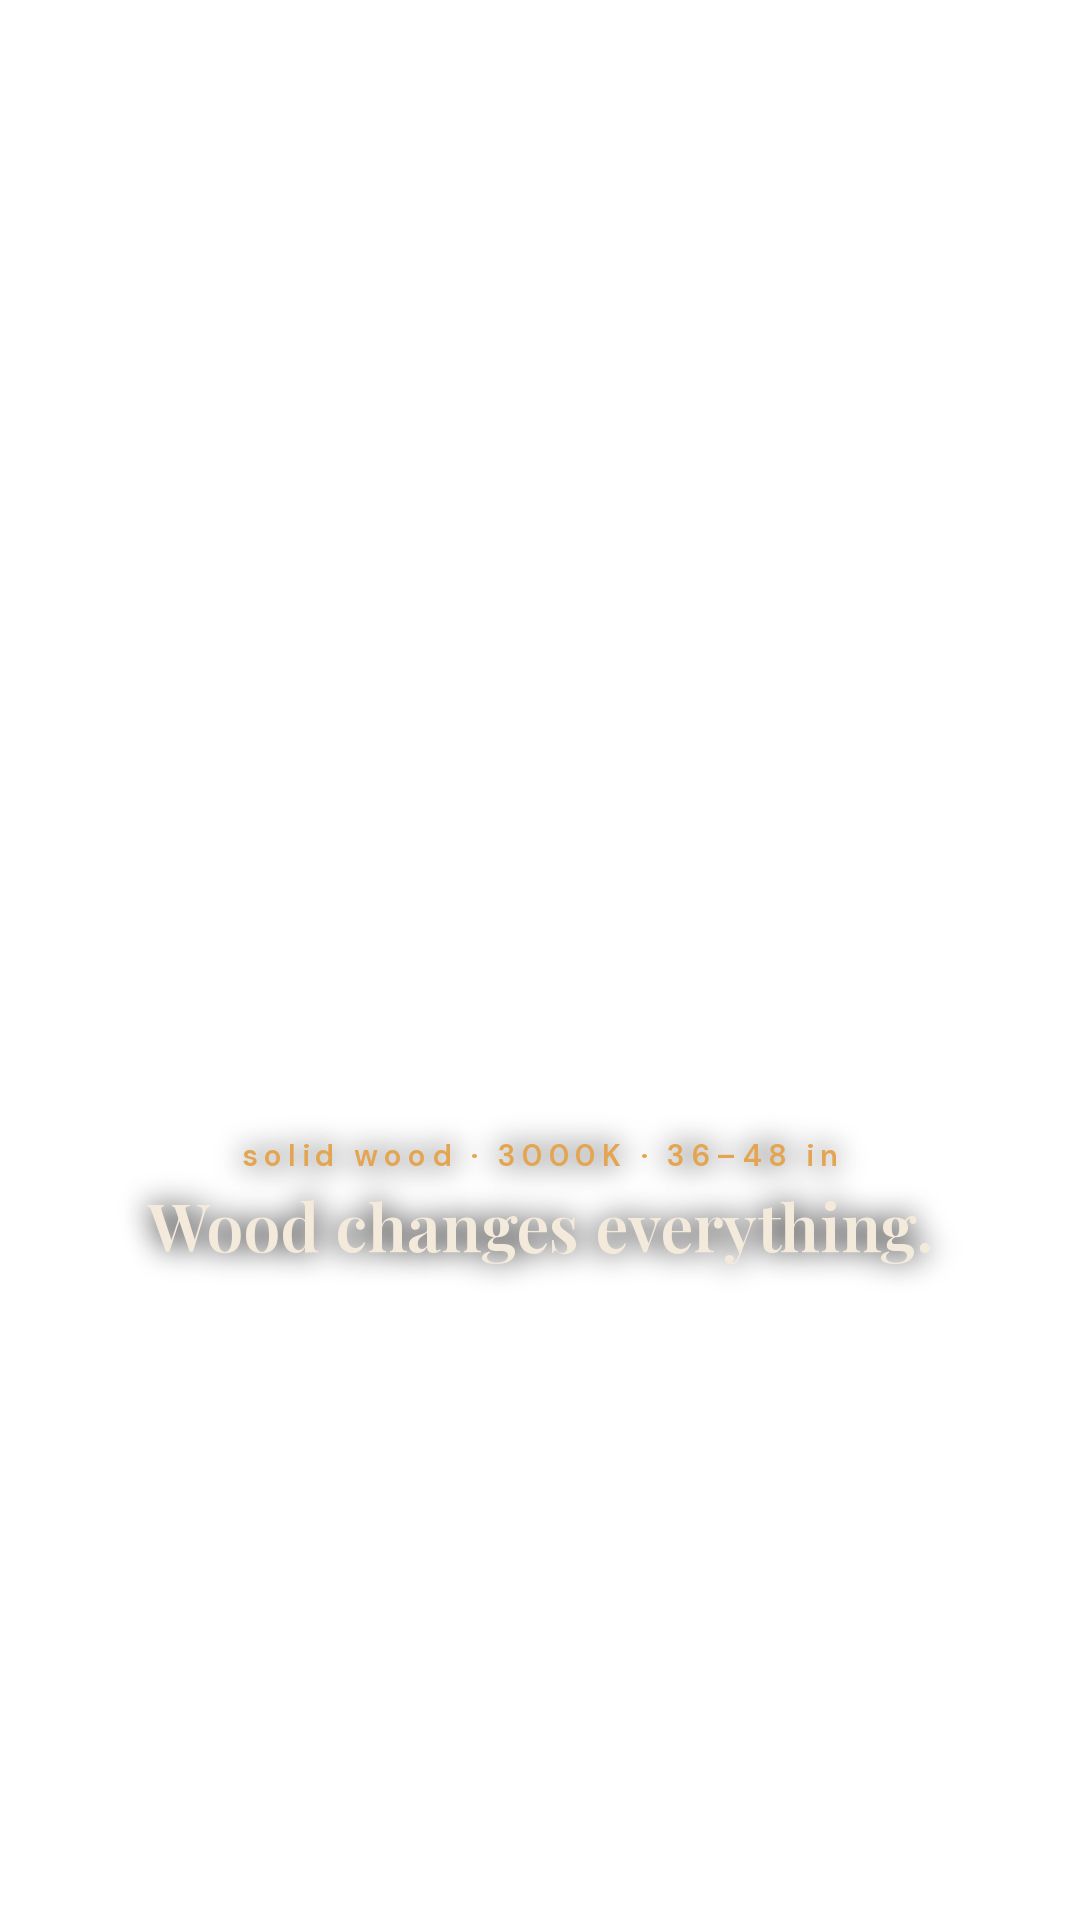
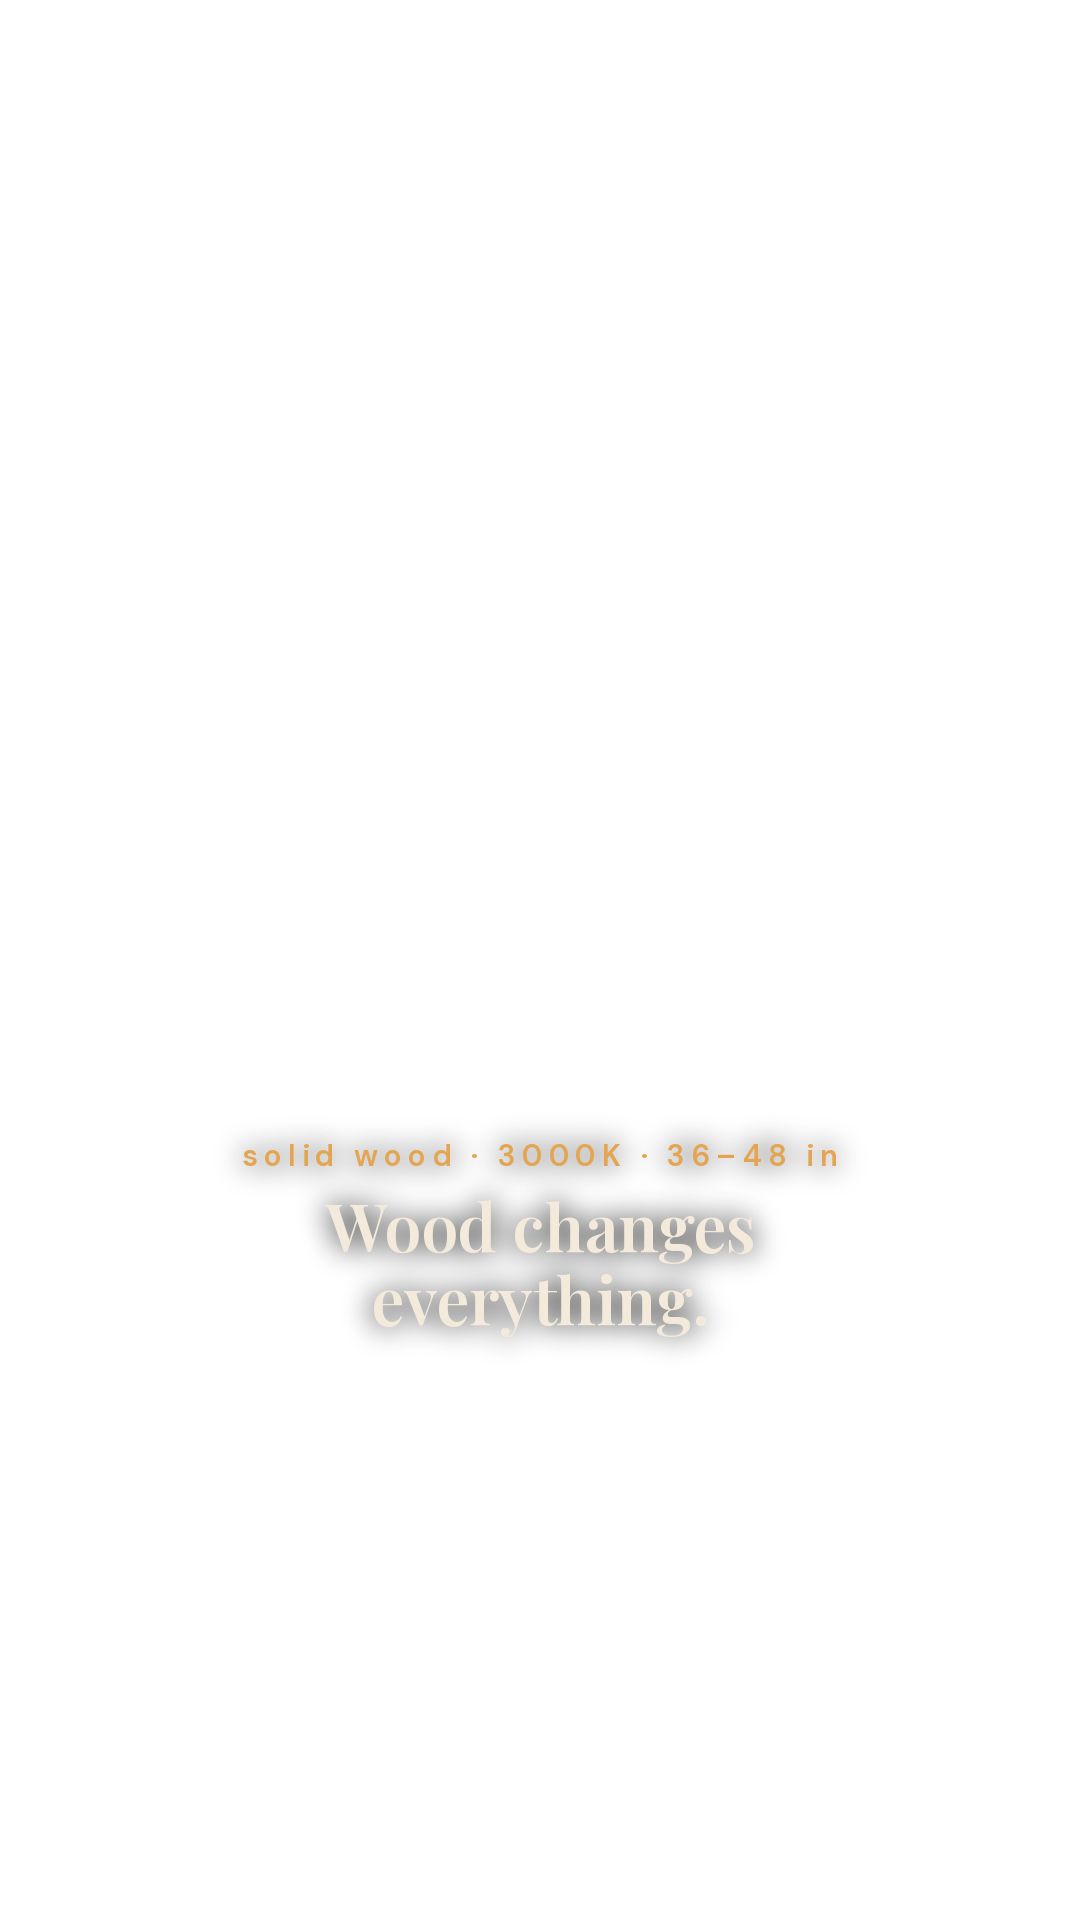
D-017 and the OS producer contract: retire the trademark warning, adopt §6b/§6c
D-017 (Rameez, 2026-09-07, settled): the product name stays in every creative,
end cards and captions, organic and ad cuts alike. So the lint no longer warns on
it and the Ads Engine facts check no longer fails on it — that check was the thing
re-raising a settled question on every cube-lamp render. copy.name_ad survives as
an optional shorter label; nothing enforces it. All 33 pre-flight timelines
regenerated so the shipped record matches.

Adopt OPERATING_MANUAL §6b/§6c as standing behaviour, written into CLAUDE.md and
the skill so no session has to be told again:
- §6b nothing is finished until it is filed, named NW-...-<handle>-...-v#,
  registered with status READY/STAGED/UNUSED, merged to main, and handed off with
  a line naming SOCIAL · ADS · PIN · EMAIL.
- §6c read source/INDEX.tsv and reuse existing footage before generating anything;
  never touch a frame flagged DO NOT REUSE. The mirror has not landed yet, so the
  rule also says what to do while source/ is absent.

Claude-Session: https://claude.ai/code/session_01NCc2h939JXgRh41rBmvC7M

Changed region(s): [[0.1222, 0.625, 0.8556, 0.7188]]

diff --git a/nixwoods-reel/system/make_reel.py b/nixwoods-reel/system/make_reel.py
@@ -40,7 +40,7 @@ def _strings(v, label):
 
 
 def lint(brief, warn=None):
-    """brand-voice and readability checks on every copy string; trademark hits go to warn (ads only)"""
+    """brand-voice and readability checks on every copy string"""
     problems = []
     warn = warn if warn is not None else []
     banned = set(PRESETS["banned_words"])
@@ -52,9 +52,8 @@ def lint(brief, warn=None):
                 problems.append(f"{label}: banned word '{w}' in {s!r}")
         if len(words) > maxw and not label.endswith(".quote"):
             problems.append(f"{label}: {len(words)} words (max {maxw}) in {s!r}")
-        for term in HK.trademark_hits(s):
-            if label != "copy.name":
-                warn.append(f"{label}: trademark term '{term}' in {s!r} — ad cuts use copy.name_ad")
+        # D-017 (2026-09-07, settled): the product name stays in every creative, organic and ad
+        # alike. No warning, no swap, and the question is not to be reopened.
     return problems
 
 
@@ -75,7 +74,7 @@ def preflight(brief, reel, warns):
         dict(check="rules · at least two colours shown", ok=(True if reel.colours == ["n/a"] else len(reel.colours) >= 2),
              detail="not applicable — single-temperature fixture" if reel.colours == ["n/a"] else ", ".join(reel.colours)),
         dict(check="rules · no dispatch-time claim while backlogged", ok=not re.search(r"\b(ships?|dispatch\w*|deliver\w*)\b.*\b\d+\s*(days?|hrs?|hours?)", text.lower()), detail="brief.copy.delivery is a claim: confirm the backlog first" if "deliver" in text.lower() else ""),
-        dict(check="facts · banned words / trademark / numbers in PDP facts", ok=not [w for w in warns if "trademark" in w] and (hs["gates"]["truth"] if hs else True), detail="; ".join(w for w in warns if "trademark" in w) or (f"hook truth gate {'pass' if hs and hs['gates']['truth'] else 'FAIL'}" if hs else "")),
+        dict(check="facts · banned words / numbers in PDP facts", ok=(hs["gates"]["truth"] if hs else True), detail=(f"hook truth gate {'pass' if hs and hs['gates']['truth'] else 'FAIL'}" if hs else "")),
         dict(check="landing = the product shown, .nw-pdp template, stock visible", ok=None, detail="manual"),
         dict(check="visual confirmation (watch the mp4, not the sheet)", ok=None, detail="manual"),
         dict(check="named control in the same ad set", ok=None, detail=E["controls"].get(brief.get("product", "rubik"), {}).get("creative_id", "none on record")),

diff --git a/.claude/skills/nixwoods-reels/SKILL.md b/.claude/skills/nixwoods-reels/SKILL.md
@@ -41,12 +41,15 @@ No `--root` needed: each product declares its asset folder in `system/presets.js
 - **Never claim a dispatch time** while orders are backlogged, and no lumens or CRI figures without a datasheet.
 - **Banned words** (the lint enforces): discover, elevate, luxury, premium, exquisite, journey, curated, unlock, stunning, delve, realm.
 - **Any Rubik's / Glass Block creative must show at least two colours.** A single-colour static breaks the locked rule.
-- **Generated frames in a paid ad** need Meta's AI-disclosure ticked by hand, and the trademarked product name swapped for `copy.name_ad`.
+- **Generated frames in a paid ad** need Meta's AI-disclosure ticked by hand.
+- **D-017 (2026-09-07, settled): "Rubik's Cube" stays in all creative** — end cards, captions, everywhere. No re-render, no rename, and the trademark question is not to be raised again in any session.
 - **Never deploy a creative nobody has watched.** The contact sheet is not a substitute for the mp4.
 - **Judge each product on the right metric.** Wall lights are a CTR product (5.56% to women 35–64); pendants are a ROAS product (1.52% CTR at 13.1x). A pendant reel with low CTR is not a failure — see PLAYBOOK 1.4.
 - **Never pull from `90-Archive/photoshoot-20260805-WATERMARKED-do-not-use`.** It is the same 5 Aug shoot as the clean `NW-CREATIVE-IMG-20260805-*` files, but its filenames are bare camera names (`AC4I9586.JPG`), so it is easy to grab by mistake. Match the frame number to the clean original instead; do not remove a watermark to reuse a frame.
 - **Drive downloads work up to 10 MB per file**; over that the connector refuses. That rules out the 18 raw shoot clips (19–25 MB) but not the photographs or the shorter edits. Oversized tool results are written to disk — decode the base64 from there, never through context. See `nixwoods-reel/DRIVE-MAP.md`.
 - **A horizontal fixture is not a cropping problem.** A centre 9:16 crop of a four-foot pendant removes the four feet. Wide shots of linear products use `fit: contain` in the presets.
+- **Reuse before you generate (§6c).** Read `source/INDEX.tsv` at the repo root — the library Mac Claude Code mirrors into `source/<shopify-handle>/` — and build from existing footage before generating or spending a credit. Never use a frame flagged `DO NOT REUSE`. If `source/` is absent the mirror has not landed yet: say so, and fall back to `<product>-reels/src/` and the Shopify CDN.
+- **Nothing is finished until it is filed, named, registered and handed off (§6b).** Named `NW-<FRONT>-<TYPE>-<YYYYMMDD>-<handle|brand>-<slug>-v#` (use `system/file_for_os.py`); text merged to `Code` `main` the same session, never left on a branch; one `00-OS/ASSET_REGISTRY.md` row per asset with `status` READY/STAGED/UNUSED (`git pull --rebase` first — the Mac writes the same files); a TASK_LEDGER row and a HANDOFF line naming `SOCIAL · ADS · PIN · EMAIL`. Consumers read the registry, never the chat.
 - Renders are committed as each passes review — the session container is ephemeral. See the storage rule in `nixwoods-reel/README.md`.
 
 ## Where things are
@@ -58,4 +61,5 @@ No `--root` needed: each product declares its asset folder in `system/presets.js
 | Finished reels | `rubik-reels/out/system/` (12 mechanisms + a 27 s ad cut) · `aurora-reels/`, `rosewood-reels/`, `teak-reels/` `out/system/` (5 each) |
 | Scripts and voice-overs | `system/scripts/product-scripts.md` (four products) and `vo-scripts.md` (registers) |
 | Ads Engine, creative learnings | `Code` repo, branch `claude/nixwoods-funnel-audit-hg4dk9` |
-| Source footage and briefs | Google Drive, root `nixwoods` — map and access limits in `nixwoods-reel/DRIVE-MAP.md` |
+| Source footage and briefs | `source/<handle>/` + `source/INDEX.tsv` (Mac mirror, read first) · Google Drive, root `nixwoods` — map and access limits in `nixwoods-reel/DRIVE-MAP.md` |
+| OS contract, ledgers, decisions | repo `nixwoods-os` — `00-OS/OPERATING_MANUAL.md` §6b/§6c, `ASSET_REGISTRY.md`, `TASK_LEDGER.md`, `DECISIONS.md` |

diff --git a/nixwoods-reel/CLAUDE.md b/nixwoods-reel/CLAUDE.md
@@ -42,3 +42,42 @@ No flags needed. `--root` only for assets outside a declared product folder.
 - **Copy rules are enforced, not advisory**: banned words, 12 words a screen, no fabricated testimonials, no dispatch claims while backlogged, two colours minimum on the cube lamp, AI disclosure on generated frames in paid ads.
 - Ads Engine, creative learnings and the decision ledger live in the `Code` repo, branch `claude/nixwoods-funnel-audit-hg4dk9`.
 - **Drive** (root `nixwoods`): downloads work up to 10 MB a file, so photographs and short edits are fetchable but the 18 raw shoot clips (19–25 MB) are not. Reel photography comes from the public Shopify product CDN. Map, naming, download recipe and the do-not-use watermarked set: `DRIVE-MAP.md`.
+
+## NixWoods OS contract (OPERATING_MANUAL §6b / §6c — standing, no need to be asked)
+
+Nothing produced here is finished until all four are true. A session that skips a step has produced
+nothing as far as the OS is concerned; the weekly health check lists it as an "orphan producer".
+
+1. **Filed** — the render lives in the tree, not only in a scratch folder or a branch. Text
+   (scripts, prompts, captions, hooks, briefs, manifests) goes to repo `Code` under
+   `creative/<engine>/` and is **merged to `main` the same session** — branches are invisible to
+   Cowork and to the Mac.
+2. **Named** — `NW-<FRONT>-<TYPE>-<YYYYMMDD>-<shopify-handle|brand>-<slug>-v#`.
+   `system/file_for_os.py` does this: `python3 system/file_for_os.py --date <YYYYMMDD>`.
+3. **Registered** — one row per asset in `nixwoods-os` `00-OS/ASSET_REGISTRY.md` with product,
+   product_id, shot_type, orientation, duration, location, tool/credits, and
+   `status` = **READY** (post-able as is) | **STAGED** (needs a caption/crop/VO) | **UNUSED**.
+   `git pull --rebase` before pushing — the Mac writes to the same files.
+4. **Handed off** — a TASK_LEDGER row plus a HANDOFF line naming the consumers:
+   `next: SOCIAL (Mac social engine) · ADS (Decision Pass creative pipeline) · PIN (pinterest-engine) · EMAIL (EMAIL tab)`.
+
+Consumers read the registry, never this chat: the Mac social engine takes `READY` rows for the
+weekly calendar, the .com Decision Pass (Thursday step 10) proposes ad tests from `READY` 9:16/4:5
+rows whose `usable-for` contains ADS, pinterest-engine takes 2:3/9:16, the EMAIL tab takes heroes.
+
+### Source-media bus (§6c) — reuse before you generate
+
+Cloud sessions cannot read Drive or the Mac. The library you may build from is mirrored by Mac
+Claude Code into **`source/<shopify-handle>/`** in this repo, with **`source/INDEX.tsv`**
+(asset ID, handle, path, shot type, orientation, usage rule).
+
+- **Read `source/INDEX.tsv` before generating anything new.** Reuse beats re-render, and beats
+  spending Higgsfield credits.
+- **Never use a frame flagged `DO NOT REUSE`.**
+- If `source/` is absent, the Mac mirror has not landed yet — say so rather than assuming there is
+  no footage, and fall back to `<product>-reels/src/` and the Shopify product CDN.
+
+### Settled decisions
+
+- **D-017 (2026-09-07).** "Rubik's Cube" stays in all creative — end cards, captions, everywhere.
+  No re-render, no rename. Do not raise the trademark question again in any session.

diff --git a/nixwoods-reel/system/PLAYBOOK.md b/nixwoods-reel/system/PLAYBOOK.md
@@ -20,7 +20,7 @@ This reel system is the **creative layer** of the NixWoods system that exists el
 Three consequences worth stating plainly:
 
 1. **Rubik's reels are organic-first right now.** The category focus says new ad money and new creative go to wall lights and pendants until 4 Nov; the Sep03 Rubik's campaign was turned off deliberately and stays off. So this set posts on Instagram (hero slots, 4–5 reels a week) and YouTube Shorts; the ad cuts wait for the next Rubik's window, or the same mechanisms get run on Aurora and the pendants first (add them under `products` in `presets.json`; the twelve angles in §5 are the shot list).
-2. **The trademark.** The Growth System flagged the trademark in the product's Shopify title and AD-COPY.md bans trademark references in ads. Organic reels keep the store name; the ad cut uses `copy.name_ad` ("Cube Lamp"). The lint prints a warning on every trademark hit so it is never silent.
+2. **The product name — settled.** D-017 (Rameez, 2026-09-07): "Rubik's Cube" stays in all creative, end cards and captions, organic and ad cuts alike. No re-render, no rename, and the question is not to be raised again in any session. The lint no longer warns on it; `copy.name_ad` survives only as an optional shorter label.
 3. **Generated frames.** Fourteen stills and five clips here are Higgsfield. The engine's own data says the one AI-rendered problem image was the account's lowest-quality ad, and that real footage wins the hero slot. Use these frames as B-roll around the real product clip (every demo does), disclose them in Ads Manager, and shoot the real "before" (tubelight room, lamp off) when the next shoot happens.
 
 ---
